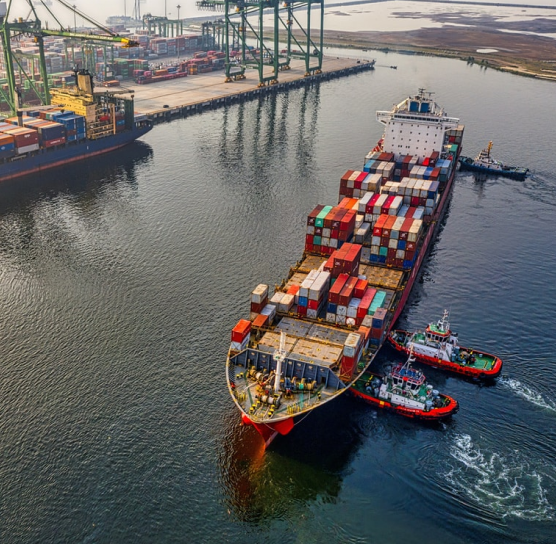
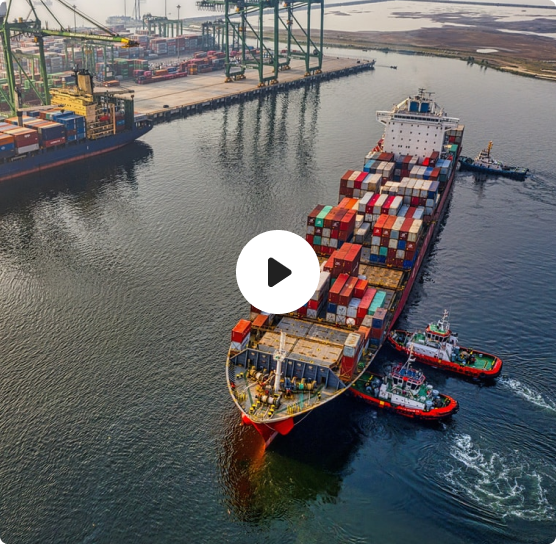
Done

Changed region(s): [[0.4281, 0.4062, 0.5809, 0.5938]]

diff --git a/components/Timeline.jsx b/components/Timeline.jsx
@@ -10,7 +10,7 @@ const Timeline = () => {
         <h1 className="text-center text-[28px] font-semibold leading-10 ">
           How It Works
         </h1>
-        <p className="my-3 text-center text-[16px] font-light leading-7 opacity-80 md:text-sm">
+        <p className=" text-center text-[16px] font-light leading-7 opacity-80 md:text-sm">
           The plate form is Hassle free and simple to use!
         </p>
         {/* For Mobile */}
@@ -75,8 +75,8 @@ const Timeline = () => {
           </div>
         </div>
         {/* For PC and */}
-        <div className="hidden md:block">
-          <div className="ml-12 flex items-center lg:ml-16 xl:ml-20 2xl:ml-28">
+        <div className="hidden md:block ">
+          <div className="ml-6 flex items-center lg:ml-12 xl:ml-20 2xl:mt-6 2xl:ml-40">
             <div className="flex h-10 w-10 items-center justify-center rounded-full border-2 border-[#FE0000] bg-white ">
               <h3 className="m-auto inline-block text-xl font-bold text-[#FE0000]">
                 1
@@ -136,31 +136,33 @@ const Timeline = () => {
                     </div>
                   </div>
                 </div>
-                <div className="boxx absolute top-[24rem] right-[23rem] mx-auto w-[20rem] rounded-xl  bg-white py-3 px-1 shadow lg:right-[28rem] 2xl:right-[40rem]">
-                  <h1 className="text-xl font-medium">3rd Box Choose</h1>
-                  <p className="left mt-2 px-2 text-[16px] font-normal leading-6 opacity-[.8]">
-                    Send in your items to our office or contact us for a pick
-                    up. Fill our form to document your details which will
-                    include recipient info and destination of shipment.
+                <div className="absolute top-[24rem] right-[23rem] mx-auto w-[20rem] rounded-xl bg-white  py-3 px-1 shadow lg:right-[28rem] 1xl:right-[38rem] 2xl:right-[40rem]">
+                  <h1 className="text-xl font-medium opacity-50">
+                    Track Shipment
+                  </h1>
+                  <p className="left mt-2 px-2 text-[16px] font-normal leading-6 opacity-50">
+                    We would send updates as they are available.
                   </p>
                 </div>
-                <div className=" absolute top-[6rem] left-12 w-[20rem] rounded-xl bg-white py-3 px-2 shadow">
-                  <h1 className="text-xl font-medium">Pick and Ship</h1>
-                  <p className="mt-2  text-[16px] font-normal leading-5 opacity-[.8]">
-                    Send in your items to our office or contact us for a pick
-                    up. Fill our form to document your details which will
-                    include recipient info and destination of shipment.
+                <div className=" absolute top-[6rem] left-10 w-[20rem] rounded-xl bg-white py-3 px-2 shadow lg:left-12">
+                  <h1 className="text-xl font-medium opacity-50">
+                    Pick and Ship
+                  </h1>
+                  <p className="mt-2  text-[16px] font-normal leading-5 opacity-50">
+                    When your shipment arrives at our office, we will perform a
+                    final inspection before sending it out to its final
+                    destination.
                   </p>
                 </div>
               </div>
             </div>
           </div>
-          <div className=" ml-16 w-[20rem] rounded-xl bg-white py-3 px-1 shadow lg:ml-24">
-            <h1 className="text-left text-xl font-medium">
-              Choose your shipment
+          <div className=" ml-16 w-[20rem] rounded-xl bg-white py-3 px-1 shadow lg:ml-24 2xl:ml-52">
+            <h1 className="text-left text-xl font-medium opacity-80">
+              Drop off Your Shipment
             </h1>
             <p className="mt-2  text-[16px] font-normal leading-5 opacity-[.8]">
-              Send in your items to our office or contact us for a pick up. Fill
+              Send in your items to our office or contact us for a pick up.Fill
               our form to document your details which will include recipient
               info and destination of shipment.
             </p>

diff --git a/components/Banner.jsx b/components/Banner.jsx
@@ -14,7 +14,7 @@ const Banner = () => {
         <section className="pt-8 xl:pt-10">
           <div className="flex  flex-col items-center md:flex-row xl:justify-center 2xl:items-center 2xl:gap-12">
             <div className="flex flex-col text-center md:text-left ">
-              <h1 className="text-[32px] font-bold leading-10 xl:text-4xl 2xl:text-6xl">
+              <h1 className="text-[32px] font-bold leading-10 xl:text-[46px] xl:font-bold xl:leading-[66px]">
                 Nigeria logistic simplified
               </h1>
               <p className="my-4 px-[3px] text-center text-[16px] font-normal leading-relaxed text-[#212121] opacity-80 md:my-2 md:px-0 md:text-left">
@@ -27,31 +27,39 @@ const Banner = () => {
                 </button>
               </div>
             </div>
-            <div className="mt-12 flex justify-center md:mt-0">
+            <div className="mt-12 flex cursor-pointer justify-center md:mt-0">
               <Image src={img1} className="" alt="normal" priority />
             </div>
           </div>
         </section>
         {/* Lower Box */}
-        <section className="mx-auto -mt-6 flex w-full flex-col items-center  justify-center rounded-md bg-white p-4 py-6 opacity-95 shadow-lg md:-mt-2 md:flex-row md:justify-around  md:p-3 md:px-4 md:shadow-2xl xl:p-4 2xl:px-11 ">
+        <section className="mx-auto -mt-1 flex w-full flex-col items-center  justify-center rounded-md bg-white p-4 py-6 opacity-95 shadow-lg md:-mt-2 md:flex-row md:justify-around  md:p-3 md:px-4 md:shadow-2xl xl:p-4 2xl:px-11 ">
           <div className="flex  items-center justify-center  gap-4 md:flex-row xl:gap-6">
             <div className="ico rounded-full bg-white p-3">
               <Image src={img3} alt="normal" />
             </div>
             <div className="flex flex-col gap-1">
-              <h1 className="text-xl font-semibold">1000+</h1>
-              <p className="text-sm">Fastest Deliveries</p>
+              <h1 className="text-xl text-[24px] font-medium leading-7 lg:font-semibold">
+                1000+
+              </h1>
+              <p className="text-[18px] leading-7 text-[#212121] opacity-80">
+                Fastest Deliveries
+              </p>
             </div>
           </div>
           {/* Line */}
-          <div className="my-6 h-[1px] w-full bg-[#6868683b] md:my-0 md:mr-6 md:h-10 md:w-[1px] md:bg-[#68686877] lg:mr-0 xl:h-16"></div>
+          <div className="my-6  h-[1px] w-full bg-[#6868683b] md:my-0 md:mr-6 md:h-10 md:w-[1px] md:bg-[#68686877] lg:mr-0 xl:h-16"></div>
           <div className="flex  items-center justify-center  gap-4 md:flex-row xl:gap-6">
             <div className="ico rounded-full bg-white p-3">
               <Image src={img2} alt="normal" />
             </div>
             <div className="flex flex-col gap-1">
-              <h1 className="text-xl font-semibold">150+</h1>
-              <p className="text-sm">Happy Customers</p>
+              <h1 className="text-xl text-[27px] font-medium leading-7 lg:font-semibold">
+                150+
+              </h1>
+              <p className="text-[18px] leading-7 text-[#212121] opacity-80">
+                Happy Customers
+              </p>
             </div>
           </div>
           {/* Line */}
@@ -61,8 +69,12 @@ const Banner = () => {
               <Image src={img4} alt="normal" />
             </div>
             <div className="flex flex-col gap-1">
-              <h1 className="text-xl font-semibold">100+</h1>
-              <p className="text-sm">Nationwide Reach</p>
+              <h1 className=" text-[27px] font-medium leading-7 lg:font-semibold">
+                100+
+              </h1>
+              <p className="text-[18px] leading-7 text-[#212121] opacity-80">
+                Nationwide Reach
+              </p>
             </div>
           </div>
         </section>

diff --git a/components/Location.jsx b/components/Location.jsx
@@ -70,42 +70,41 @@ const Location = () => {
           We currently have four physical locations. Three operating
           offices/warehouse
         </p>
-        <div className="mx-auto mt-4 flex w-full flex-col">
-          <Slider {...settings}>
-            {Locations.map((item, index) => (
-              <>
-                <div
-                  key={index}
-                  className="card color-white mx-2  flex items-center md:p-3 xl:mx-3  2xl:mx-6">
-                  <div className="cardss flex-1 cursor-pointer rounded-lg bg-[#f11515] px-6  py-4 duration-300 hover:bg-[#ffffff]">
-                    <img
-                      className="h-auto w-full  xl:h-[15rem]"
-                      src={item.Img}
-                      alt="locations"
-                    />
-                    <p className="my-3 text-center text-[16px] font-light leading-7 text-black opacity-80">
-                      {item.loc}
-                    </p>
-                    <button className="mt-2 w-full rounded-lg border-[1px] border-[#FE0000] py-2 text-center text-[16px] font-semibold leading-5 text-[#FE0000]">
-                      <a href="https://www.google.com/maps/place/12763+Capricorn+St+%23900,+Stafford,+TX+77477,+USA/@29.6353995,-95.5694544,17z/data=!3m1!4b1!4m5!3m4!1s0x8640e7d0d20fffff:0x375fb3e9bc47e7ad!8m2!3d29.6353949!4d-95.5672657">
-                        VIEW LOCATION
-                      </a>
-                    </button>
-                    <button className="m-6  flex w-full items-center justify-center gap-2 rounded-md border-[1px] py-2">
-                      <h1 className=" rounded-full bg-[#29A71A] p-[3px] text-xl text-white">
-                        {" "}
-                        {item.ico}
-                      </h1>
-                      <h1 className="text-[16px] font-semibold leading-5">
-                        {item.phone}
-                      </h1>
-                    </button>
-                  </div>
+
+        <Slider {...settings}>
+          {Locations.map((item, index) => (
+            <>
+              <div
+                key={index}
+                className="card color-white mx-3  items-center   md:mx-6 2xl:mx-8">
+                <div className="cardss  cursor-pointer rounded-lg bg-[#fafafa] px-6 py-4 shadow-xl  duration-300 hover:bg-[#ffffff]">
+                  <img
+                    className="h-auto w-full  xl:h-[15rem]"
+                    src={item.Img}
+                    alt="locations"
+                  />
+                  <p className="mt-2 text-center text-[16px] font-light leading-7 text-black opacity-80">
+                    {item.loc}
+                  </p>
+                  <button className="mt-6 w-full rounded-lg border-[1px] border-[#FE0000] py-2 text-center text-[16px] font-semibold leading-5 text-[#FE0000]">
+                    <a href="https://www.google.com/maps/place/12763+Capricorn+St+%23900,+Stafford,+TX+77477,+USA/@29.6353995,-95.5694544,17z/data=!3m1!4b1!4m5!3m4!1s0x8640e7d0d20fffff:0x375fb3e9bc47e7ad!8m2!3d29.6353949!4d-95.5672657">
+                      VIEW LOCATION
+                    </a>
+                  </button>
+                  <button className="mt-2 flex w-full items-center justify-center gap-2 rounded-md border-[1px] py-2">
+                    <h1 className=" rounded-full bg-[#29A71A] p-[3px] text-xl text-white">
+                      {" "}
+                      {item.ico}
+                    </h1>
+                    <h1 className="text-[16px] font-semibold leading-5">
+                      {item.phone}
+                    </h1>
+                  </button>
                 </div>
-              </>
-            ))}
-          </Slider>
-        </div>
+              </div>
+            </>
+          ))}
+        </Slider>
       </section>
     </>
   );

diff --git a/components/Navbar.jsx b/components/Navbar.jsx
@@ -29,7 +29,7 @@ export default function Navbar() {
                 open ? "left-0 top-0 right-20 " : "left-[-900px] top-0"
               } left-0  w-full bg-[#e9e9e9] transition-all duration-700 ease-in md:w-auto md:bg-inherit`}>
               <div className="flex items-center ">
-                <div className="logo cursor-pointer ">
+                <div className="logo cursor-pointer md:hidden">
                   <Image height={40} src={logo} alt="normal" />
                 </div>
                 <div
@@ -39,20 +39,20 @@ export default function Navbar() {
                 </div>
               </div>
 
-              <li className="my-2 cursor-pointer border-stone-50 text-center font-normal md:my-auto md:border-none">
-                Home
+              <li className="my-2 cursor-pointer border-stone-50 text-center font-normal md:my-auto md:border-none lg:font-medium">
+                About us
               </li>
-              <li className="my-2 cursor-pointer text-center font-normal md:my-auto md:border-none md:text-left">
-                Education
-              </li>
-              <li className="my-2 cursor-pointer text-center font-normal md:my-auto md:border-none md:text-left">
-                About
-              </li>
-              <li className="my-2 cursor-pointer text-center font-normal md:my-auto md:border-none md:text-left">
-                Contact
-              </li>
-              <li className="my-2 cursor-pointer text-center font-normal md:my-auto md:border-none md:text-left">
+              <li className="my-2 cursor-pointer text-center font-normal md:my-auto md:border-none md:text-left lg:font-medium">
                 Services
+              </li>
+              <li className="my-2 cursor-pointer text-center font-normal md:my-auto md:border-none md:text-left lg:font-medium">
+                Shipment Calender
+              </li>
+              <li className="my-2 cursor-pointer text-center font-normal md:my-auto md:border-none md:text-left lg:font-medium">
+                Pricing
+              </li>
+              <li className="my-2 cursor-pointer text-center font-normal md:my-auto md:border-none md:text-left lg:font-medium">
+                Our Locations
               </li>
               <li className=" flex justify-center pb-1 md:justify-start">
                 <button className="rounded-lg bg-[#fe0000] px-3 py-2 text-sm font-semibold text-white  md:w-auto md:py-2 md:px-3 md:text-base">

diff --git a/components/Prices.jsx b/components/Prices.jsx
@@ -75,7 +75,7 @@ const Prices = () => {
                   <div
                     key={index}
                     className="card color-white mx-2 flex items-center  md:p-3 xl:mx-3  2xl:mx-6">
-                    <div className="cardss  flex-1 cursor-pointer  rounded-lg bg-[#e66060] py-4 px-3 pb-8 duration-300 hover:bg-[#ffffff] md:h-[330px] md:px-2 ">
+                    <div className="cardss cursor-pointer rounded-lg bg-[#fafafa]  py-4 px-3 pb-8 shadow-xl duration-300 first-line:flex-1 hover:bg-[#ffffff] md:h-[330px] md:px-2 ">
                       <h1 className="font-sm mt-4 text-center text-[16px] font-normal leading-8">
                         {item.name}
                       </h1>
@@ -95,7 +95,7 @@ const Prices = () => {
                       <h1 className="mt-3 px-2 text-center text-[16px] font-normal leading-7">
                         {item.address}
                       </h1>
-                      <button className="my-6  flex w-full items-center justify-center gap-2 rounded-md border-[1px] py-2">
+                      <button className="my-3  flex w-full items-center justify-center gap-2 rounded-md border-[1px] py-2">
                         <h1 className=" rounded-full bg-[#29A71A] p-[3px] text-xl text-white">
                           {" "}
                           {item.ico}

diff --git a/components/Slick_Slider.jsx b/components/Slick_Slider.jsx
@@ -65,17 +65,17 @@ const Slick_Slider = () => {
         <h1 className="text-center text-[26px] font-bold  lg:text-[36px] ">
           Services
         </h1>
-        <p className="my-4 text-center text-[14px]  font-light leading-7 text-[#212121] opacity-80">
+        <p className="text-center text-[14px]  font-light leading-7 text-[#212121] opacity-80">
           We offer outstanding services on time, every time at affordable rates.
         </p>
-        <div className="mx-auto flex  w-full flex-col">
+        <div className="mx-auto mt-4 flex  w-full flex-col">
           <Slider {...settings}>
             {dataDigitalBestSeller.map((item, index) => (
               <>
                 <div
                   key={index}
                   className="card color-white mx-2 flex  items-center md:p-3 xl:mx-3  2xl:mx-6">
-                  <div className="cardss flex-1 cursor-pointer rounded-lg bg-[#db3939] px-6  py-4 duration-300 hover:bg-[#ffffff] md:h-[290px]">
+                  <div className="cardss flex-1 cursor-pointer rounded-lg bg-[#fafafa] px-6 py-2  shadow-xl  duration-300 hover:bg-[#ffffff] md:h-[290px]">
                     <img
                       className="mx-auto"
                       src={item.Image}

diff --git a/components/CalenderSection.jsx b/components/CalenderSection.jsx
@@ -8,11 +8,11 @@ const CalenderSection = () => {
         <h1 className="text-center text-[28px] font-semibold leading-10 lg:text-[40px]">
           Shipment Calendar
         </h1>
-        <p className="my-4 text-center  text-[14px] font-light leading-7  tracking-wide text-[black] opacity-80 lg:text-[16]">
+        <p className="mt-2 text-center  text-[14px] font-light leading-7  tracking-wide text-[black] opacity-80 lg:text-[16]">
           Check out the dates we will be shipping from your City and send in
           your items to our office.
         </p>
-        <div className="flex w-[100%] flex-col  gap-5 md:flex-row">
+        <div className="mt-2 flex w-[100%]  flex-col gap-5 md:mt-4 md:flex-row">
           {/* Child 1 */}
           <div className="scrl flex w-[100%] flex-1 flex-row  gap-4 overflow-x-scroll pb-2 md:h-[16rem] md:w-[20%] md:flex-col md:gap-0 md:space-y-4 md:overflow-y-scroll md:pb-0  md:pr-2 lg:items-center ">
             {/* Its mini selection child */}

diff --git a/components/Section2.jsx b/components/Section2.jsx
@@ -1,3 +1,4 @@
+/* eslint-disable @next/next/no-img-element */
 import React from "react";
 import Videoplayer from "./Videoplayer";
 import { AiFillRightCircle } from "react-icons/ai";
@@ -12,8 +13,8 @@ const Section2 = () => {
         {/* Parent */}
         <div className="flex flex-col gap-2  md:flex-row xl:gap-8 2xl:justify-center 2xl:gap-12 ">
           {/* _________________________________Child_________________________________________ */}
-          <div className="flex-1">
-            <Videoplayer />
+          <div className="flex flex-1 md:justify-end">
+            <img src="/Images/Bitmap.png" className="rounded-md" alt="Images" />
           </div>
 
           {/* _________________________________Child_________________________________________ */}

diff --git a/Assets/Data.js b/Assets/Data.js
@@ -67,14 +67,14 @@ export const Locations = [
     Img: "/Images/loc1.png",
   },
   {
-    loc: "3300 County Road 10 Brooklyn Center MN 55429, Suite 206",
+    loc: "12763 Capricorn St Suite 900, Stafford, TX 77477",
     btn: "VIEW DIRECTION",
     phone: "+1(832)9702740",
     ico: <FaWhatsapp />,
     Img: "/Images/loc2.png",
   },
   {
-    loc: "Shop D213 Ogba Multipurpose Shopping Complex, Abiodun Jagun Street, Ogba, Lagos 25, Ajayi Road, Ogba, Lagos",
+    loc: "12763 Capricorn St Suite 900, Stafford, TX 77477",
     btn: "VIEW DIRECTION",
     phone: "+2349132457112",
     ico: <FaWhatsapp />,

diff --git a/pages/index.js b/pages/index.js
@@ -7,7 +7,7 @@ export default function Home() {
   return (
     <div>
       <Head>
-        <title>Create Next App</title>
+        <title>Nigeria Logistic | Home</title>
         <meta name="description" content="Generated by create next app" />
       </Head>
       <Script

diff --git a/styles/globals.css b/styles/globals.css
@@ -89,9 +89,9 @@
       margin-top: 0.2rem;
     }
   }
-  @media (min-width: 1278px) {
+  @media (min-width: 1440px) {
     .boxx {
-      /* right: 40rem; */
+      right: 60rem;
     }
   }
   .Tbox {

diff --git a/tailwind.config.js b/tailwind.config.js
@@ -16,7 +16,7 @@ module.exports = {
         lg: "1024px",
 
         xl: "1280px",
-
+        "1xl": "1440px",
         "2xl": "1536px",
       },
       backgroundImage: {
